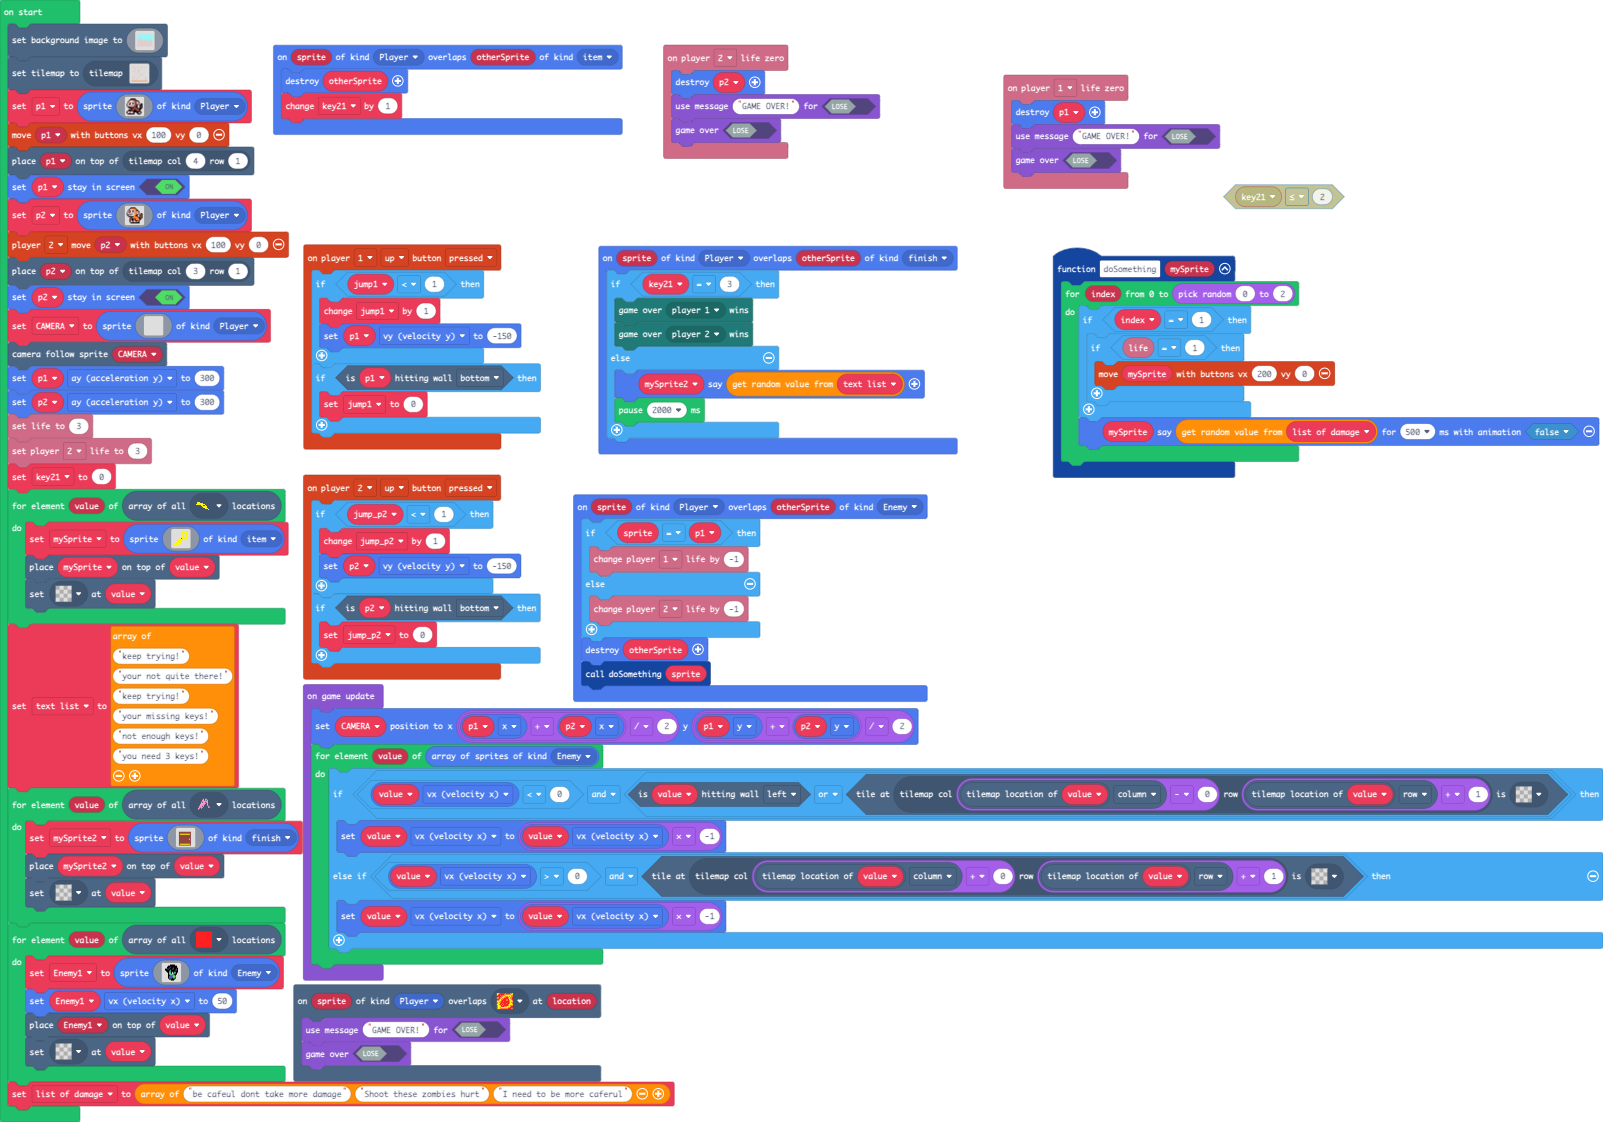
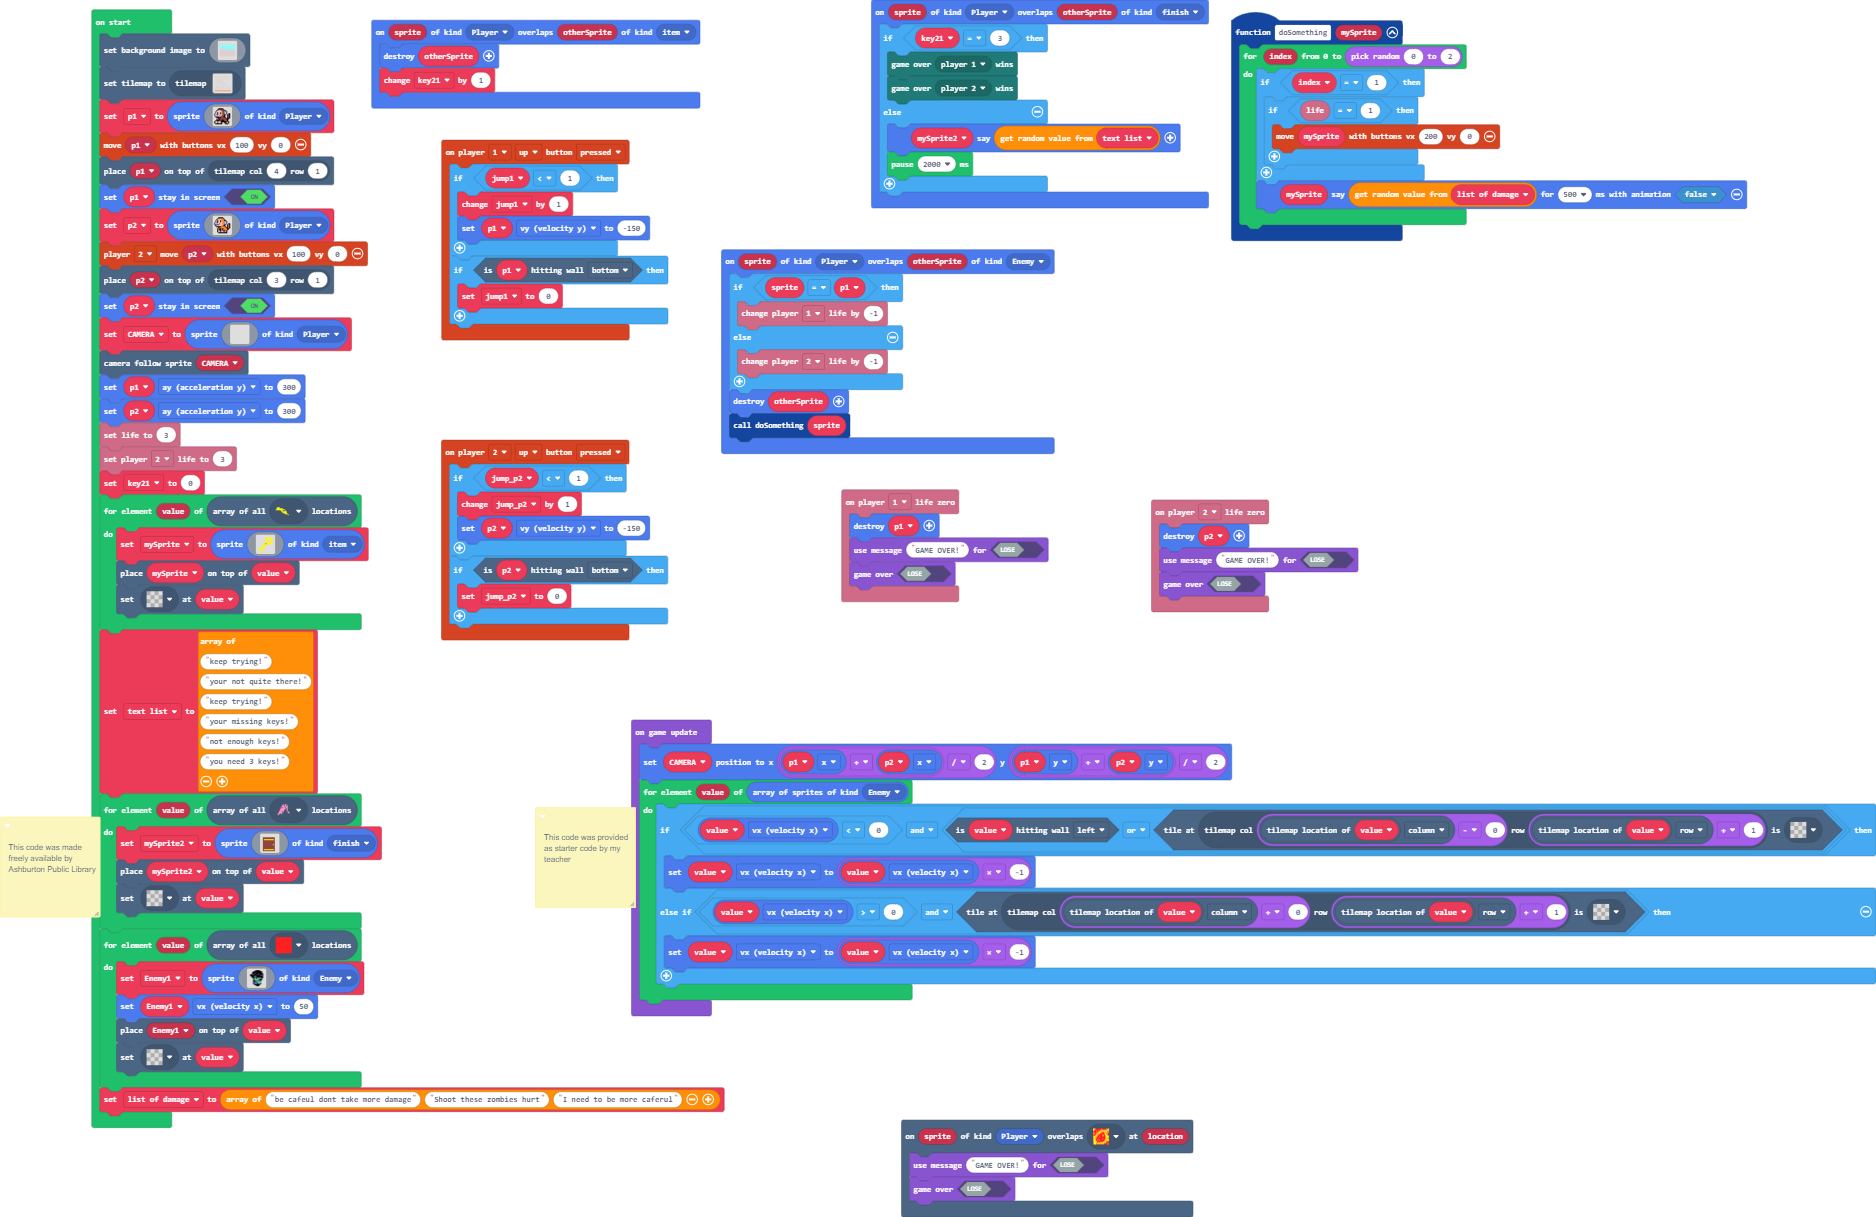
Update pxt.json, main.blocks, main.ts

diff --git a/main.ts b/main.ts
@@ -67,6 +67,9 @@ sprites.onOverlap(SpriteKind.Player, SpriteKind.Enemy, function (sprite, otherSp
     sprites.destroy(otherSprite)
     doSomething(sprite)
 })
+/**
+ * This code was made freely available by Ashburton Public Library
+ */
 let jump_p2 = 0
 let jump1 = 0
 let list_of_damage: string[] = []
@@ -342,6 +345,9 @@ for (let value of tiles.getTilesByType(assets.tile`myTile`)) {
     tiles.setTileAt(value, assets.tile`transparency16`)
 }
 list_of_damage = ["be cafeul dont take more damage", "Shoot these zombies hurt", "I need to be more caferul"]
+/**
+ * This code was provided as starter code by my teacher
+ */
 game.onUpdate(function () {
     CAMERA.setPosition((p1.x + p2.x) / 2, (p1.y + p2.y) / 2)
     for (let value of sprites.allOfKind(SpriteKind.Enemy)) {
